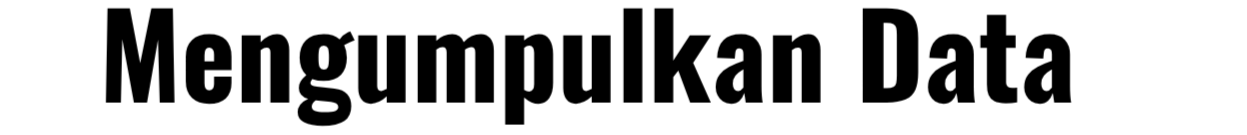
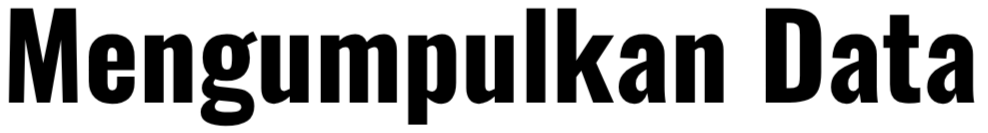
Update TopicFlow.jsx to include new slide type for "Merumuskan Hipotesis", adjust related audio mappings, and enhance UI elements with additional images and headings for better clarity.

diff --git a/src/components/TopicFlow.jsx b/src/components/TopicFlow.jsx
@@ -20,7 +20,7 @@ const LAYOUT = {
 const GERAK_SLIDES = [
   { type: "gerak-simak", label: "Ayo Simak" },
   { type: "gerak-bertanya", label: "Ayo Bertanya" },
-  { type: "gerak-coba-tebak-image", label: "Coba Tebak" },
+  { type: "gerak-merumuskan-hipotesis", label: "Merumuskan Hipotesis" },
   { type: "gerak-coba-tebak-pertanyaan", label: "Coba Tebak Pertanyaan", background: "/assets/latar-slide/4.png" },
   { type: "gerak-materi", label: "Materi Gerak" },
   { type: "kecepatan-rumus", label: "Kecepatan dan Rumus" },
@@ -273,6 +273,7 @@ function TopicFlow({ topic }) {
     const map = {
       "gerak-simak": "ui-ayo-simak",
       "gerak-bertanya": "slide-gerak-bertanya",
+      "gerak-merumuskan-hipotesis": "slide-gerak-merumuskan-hipotesis",
       "gerak-coba-tebak-image": "slide-gerak-coba-tebak",
       "gerak-coba-tebak-pertanyaan": "slide-gerak-coba-tebak-pertanyaan",
       "gerak-materi": "slide-gerak-materi",
@@ -547,19 +548,6 @@ function TopicFlow({ topic }) {
           >
             <div className="relative z-10 flex flex-col items-center justify-center h-full w-full gap-3 p-4">
               <img src={`${ET}/Orientasi Gerak.png`} alt="Orientasi Gerak" className="w-full object-contain" />
-
-              {/* Deskripsi */}
-              {/* <div className="text-center">
-                <h2 className="text-black text-xl lg:text-2xl font-bold">
-                  Amati Gerakan Mobil!
-                </h2>
-
-                <p className="text-black text-sm lg:text-base mt-1">
-                  Perhatikan perubahan posisi dan arah gerak mobil pada video berikut.
-                </p>
-              </div> */}
-
-              {/* Video */}
               <video
                 ref={videoRef}
                 src="/assets/elemen/Gerak/Animasi mobil Bergerak.mp4"
@@ -585,14 +573,23 @@ function TopicFlow({ topic }) {
       case "gerak-coba-tebak-image":
         return (
           <CharacterAndBoard characterSrc="/assets/elemen/Gerak/Coba Tebak.png" characterAlt="Coba Tebak" boardInset="8%">
-            <div className="w-full h-full flex flex-col justify-center gap-2 overflow-y-auto items-center py-1">
-              <br />
-              <img src={`${ET}/Merumuskan Hipotesis.png`} alt="Merumuskan hipotesis" className="w-2/3 object-contain" />
-              <img src={`${ET}/Tuliskan Hipotesismu.png`} alt="Tuliskan hipotesismu" className="w-2/3 object-contain" />
-              <img src="/assets/elemen/Gaya/Coba Tebak 1.png" alt="Coba Tebak" className="w-2/3  object-contain" />
+            <div className="flex h-full w-full items-center justify-center overflow-y-auto py-1">
+              <img src="/assets/elemen/Gerak/Coba tebak 1.png" alt="Coba Tebak" className="max-h-full w-full object-contain" />
             </div>
           </CharacterAndBoard>
         );
+
+      case "gerak-merumuskan-hipotesis":
+        return (
+          <CharacterAndBoard characterSrc="/assets/elemen/Gerak/Coba Tebak.png" characterAlt="Merumuskan Hipotesis" boardInset="8%">
+            <div className="w-full h-full flex flex-col justify-center gap-2 overflow-y-auto items-center py-1">
+              <img src={`${ET}/Merumuskan Hipotesis.png`} alt="Merumuskan hipotesis" className="w-full object-contain shrink-0" />
+              <img src={`${ET}/Tuliskan Hipotesismu.png`} alt="Tuliskan hipotesismu" className="w-full object-contain" />
+            </div>
+          </CharacterAndBoard>
+        );
+
+
 
       case "gerak-coba-tebak-pertanyaan":
         return (
@@ -631,7 +628,6 @@ function TopicFlow({ topic }) {
               <p>
                 <span className="font-bold">Kelajuan</span> adalah seberapa cepat jarak ditempuh dalam waktu tertentu tanpa memperhitungkan arah. Kelajuan termasuk besaran skalar.
               </p>
-              <img src={`${ET}/Rumus Gerak.png`} alt="Rumus gerak" className="w-full max-h-[40%] object-contain mx-auto" />
             </div>
           </PapanPutihFull>
         );
@@ -644,18 +640,19 @@ function TopicFlow({ topic }) {
                 <span className="font-bold">Kecepatan</span> adalah besarnya perpindahan per satuan waktu. Kecepatan adalah besaran vektor yang memiliki nilai, satuan, dan arah.
               </p>
               <p>Dengan membandingkan jarak tempuh terhadap waktu, kamu akan mendapatkan nilai kelajuan sebuah benda. Kelajuan dapat ditulis dalam persamaan:</p>
-              <div className="bg-gray-100 rounded-lg p-3 text-center text-2xl md:text-3xl font-bold tracking-wide">v = s / t</div>
-              <ul className="space-y-1">
-                <li>
-                  <span className="font-bold">v</span> = Kelajuan (m/s)
-                </li>
-                <li>
-                  <span className="font-bold">s</span> = Jarak tempuh (m)
-                </li>
-                <li>
-                  <span className="font-bold">t</span> = Waktu (s)
-                </li>
-              </ul>
+              <img src={`${ET}/Rumus Gerak.png`} alt="Rumus gerak" className="w-full max-h-[40%] object-contain mx-auto" />
+              <div className="space-y-1">
+                <p className="font-bold">Keterangan:</p>
+                <p>
+                  <span className="font-bold">v</span> = Kelajuan, satuannya m/s
+                </p>
+                <p>
+                  <span className="font-bold">s</span> = Jarak tempuh, satuannya meter (m)
+                </p>
+                <p>
+                  <span className="font-bold">t</span> = waktu, satuannya adalah sekon atau detik (s)
+                </p>
+              </div>
             </div>
           </PapanPutihFull>
         );
@@ -681,23 +678,17 @@ function TopicFlow({ topic }) {
       case "tabel-pengamatan-gerak":
         return (
           <PapanPutihFull>
-            <img src="/assets/elemen/Gerak/Tabel Pengamatan.png" alt="Tabel Pengamatan" className="w-full h-full object-contain" />
+            <h1 className="text-center text-4xl font-bold font-oswald">TABEL PENGAMATAN</h1>
+            <img src={`${ET}/Mengumpulkan Data.png`} alt="Mengumpulkan data" className="w-1/3 h-fit object-contain" />
+            <img src="/assets/elemen/Gerak/Tabel Pengamatan.png" alt="Tabel Pengamatan" className="w-full h-fit object-contain" />
           </PapanPutihFull>
         );
 
       case "analisis-yuk-gerak":
         return (
           <CharacterAndBoard characterSrc="/assets/elemen/Gerak/Analisis Yuk.png" characterAlt="Analisis Yuk">
+            <h3 className="text-left text-2xl font-bold font-oswald">Menganalisis Data</h3>
             <div className="w-full h-full flex flex-col justify-center overflow-y-auto gap-2 items-center">
-              <br />
-              <br />
-              <br />
-              <br />
-              <br />
-              <br />
-              <br />
-              <img src={`${ET}/Menganalisis Data.png`} alt="Menganalisis data" className="w-full object-contain" />
-              <img src="/assets/elemen/Gerak/Analisis Yuk 1.png" alt="Analisis Yuk 1" className="w-2/3 object-contain" />
               <img src={`${ET}/Gunakan Jawaban.png`} alt="Gunakan jawaban" className="w-2/3 object-contain" />
               <img src="/assets/elemen/Gerak/Analisis Yuk 2.png" alt="Analisis Yuk 2" className="w-full object-contain" />
             </div>
@@ -707,10 +698,9 @@ function TopicFlow({ topic }) {
       case "mari-simpulkan-gerak":
         return (
           <CharacterAndBoard characterSrc="/assets/elemen/Gerak/Mari Simpulkan.png" characterAlt="Mari Simpulkan">
+            <h3 className="text-left text-2xl font-bold font-oswald">Membuat Kesimpulan</h3>
             <div className="w-full h-full flex flex-col justify-center overflow-y-auto gap-2 items-center">
-              <br />
-              <img src={`${ET}/Membuat Kesimpulan.png`} alt="Membuat kesimpulan" className="w-full object-contain shrink-0" />
-              <img src="/assets/elemen/Gerak/Mari Simpulkan 1.png" alt="Mari Simpulkan 1" className="w-2/3 object-contain" />
+              <img src="/assets/elemen/Gerak/Mari Simpulkan 1.png" alt="Mari Simpulkan 1" className="w-3/4 object-contain" />
               <img src="/assets/elemen/Gerak/Mari Simpulkan 2.png" alt="Mari Simpulkan 2" className="w-full object-contain" />
             </div>
           </CharacterAndBoard>
@@ -729,8 +719,9 @@ function TopicFlow({ topic }) {
       case "gaya-bertanya":
         return (
           <CharacterAndBoard characterSrc="/assets/elemen/Gaya/Ayo bertanya.png" characterAlt="Ayo Bertanya">
-            <div className="w-full h-full flex flex-col items-center justify-center overflow-y-auto gap-2">
-              <img src={`${ET}/Mengajukan Pertanyaan atau Permasalahan.png`} alt="Mengajukan pertanyaan atau permasalahan" className="w-full object-contain shrink-0" />
+            <h3 className="text-left text-2xl font-bold font-oswald">Mengajukan Pertanyaan atau Permasalahan</h3>
+            <br />
+            <div className="w-full h-fit flex flex-col items-center justify-center overflow-y-auto gap-2">
               <img src="/assets/elemen/Gaya/Ayo bertanya 1.png" alt="Pertanyaan 1" className="w-2/3 object-contain" />
               <img src="/assets/elemen/Gaya/Ayo bertanya 2.png" alt="Pertanyaan 2" className="w-full object-contain" />
             </div>
@@ -740,12 +731,10 @@ function TopicFlow({ topic }) {
       case "gaya-coba-tebak":
         return (
           <CharacterAndBoard characterSrc="/assets/elemen/Gaya/Coba Tebak.png" characterAlt="Coba Tebak" boardInset="8%">
-            <div className="w-full h-full flex flex-col justify-center gap-2 overflow-y-auto py-1 items-center">
-              <br />
-              <br />
-              <img src={`${ET}/Merumuskan Hipotesis.png`} alt="Merumuskan hipotesis" className="w-full object-contain" />
-              <img src={`${ET}/Tuliskan Hipotesismu.png`} alt="Tuliskan hipotesismu" className="w-2/3 object-contain" />
-              <img src="/assets/elemen/Gaya/Coba Tebak 1.png" alt="Coba Tebak" className="w-2/3 object-contain" />
+            <h3 className="text-left text-2xl font-bold font-oswald">Mengajukan Pertanyaan atau Permasalahan</h3>
+            <br />
+            <div className="w-full h-fit flex flex-col justify-center gap-2 overflow-y-auto py-1 items-center">
+              <img src={`${ET}/Tuliskan Hipotesismu.png`} alt="Tuliskan hipotesismu" className="w-full object-contain" />
             </div>
           </CharacterAndBoard>
         );
@@ -814,11 +803,21 @@ function TopicFlow({ topic }) {
             <div className="font-oswald text-gray-800 text-base md:text-lg lg:text-3xl leading-relaxed space-y-3">
               <h3 className="font-bold">Hukum 2 Newton</h3>
               <p>Percepatan sebuah benda sebanding dengan gaya yang diberikan dan berbanding terbalik dengan massanya. Hukum II Newton dituangkan dalam rumus:</p>
-              {/* <div className="text-center text-2xl md:text-3xl font-bold italic my-2">F = m × a</div>
-                <p>F = Gaya (Newton) &nbsp;|&nbsp; m = massa (kg) &nbsp;|&nbsp; a = percepatan (m/s²)</p> */}
-            </div>
-            <div className="flex flex-col items-center">
-              <img src={`${ET}/Rumus Hukum 2 Newton.png`} alt="Rumus hukum 2 Newton" className="w-2/3 object-contain" />
+              <div className="flex flex-col items-center">
+                <img src={`${ET}/Rumus Hukum 2 Newton.png`} alt="Rumus hukum 2 Newton" className="w-2/3 object-contain" />
+              </div>
+              <div className="space-y-1 text-base md:text-lg lg:text-2xl">
+                <p className="font-bold">Keterangan:</p>
+                <p>
+                  <span className="font-bold">F</span> = Gaya, dengan satuan Newton
+                </p>
+                <p>
+                  <span className="font-bold">m</span> = massa benda, satuan kilogram (kg)
+                </p>
+                <p>
+                  <span className="font-bold">a</span> = percepatan gerak benda, satuan m/s
+                </p>
+              </div>
             </div>
           </PapanPutihFull>
         );
@@ -860,24 +859,17 @@ function TopicFlow({ topic }) {
       case "tabel-pengamatan-gaya":
         return (
           <PapanPutihFull>
-            <img src="/assets/elemen/Gaya/Tabel Pengamatan.png" alt="Tabel Pengamatan" className="w-full h-full object-contain" />
+            <h1 className="text-center text-4xl font-bold font-oswald">TABEL PENGAMATAN</h1>
+            <img src={`${ET}/Mengumpulkan Data.png`} alt="Mengumpulkan data" className="w-1/3 h-fit object-contain" />
+            <img src="/assets/elemen/Gaya/Tabel Pengamatan.png" alt="Tabel Pengamatan" className="w-full h-fit object-contain" />
           </PapanPutihFull>
         );
 
       case "analisis-yuk-gaya":
         return (
           <CharacterAndBoard characterSrc="/assets/elemen/Gaya/Analisis Yuk.png" characterAlt="Analisis Yuk">
-            <div className="w-full h-full flex flex-col items-center justify-center overflow-y-auto gap-2">
-              <br />
-              <br />
-              <br />
-              <br />
-              <br />
-              <br />
-              <br />
-              <br />
-              <img src={`${ET}/Menganalisis Data.png`} alt="Menganalisis data" className="w-full object-contain" />
-              <img src="/assets/elemen/Gaya/Analisis Yuk 1.png" alt="Analisis Yuk 1" className="w-2/3 object-contain" />
+            <h3 className="text-left text-2xl font-bold font-oswald">Menganalisis Data</h3>
+            <div className="w-full h-fit flex flex-col justify-center overflow-y-auto gap-2 items-center">
               <img src={`${ET}/Gunakan Jawaban.png`} alt="Gunakan jawaban" className="w-2/3 object-contain" />
               <img src="/assets/elemen/Gaya/Analisis Yuk 2.png" alt="Analisis Yuk 2" className="w-full object-contain" />
             </div>
@@ -887,9 +879,8 @@ function TopicFlow({ topic }) {
       case "mari-simpulkan-gaya":
         return (
           <CharacterAndBoard characterSrc="/assets/elemen/Gaya/Mari Simpulkan.png" characterAlt="Mari Simpulkan">
-            <div className="w-full h-full flex flex-col justify-center overflow-y-auto gap-2 items-center">
-              <img src={`${ET}/Membuat Kesimpulan.png`} alt="Membuat kesimpulan" className="w-full object-contain" />
-              <img src="/assets/elemen/Gaya/Mari Simpulkan 1.png" alt="Mari Simpulkan 1" className="w-2/3 object-contain" />
+            <h3 className="text-left text-2xl font-bold font-oswald">Membuat Kesimpulan</h3>
+            <div className="w-full h-fit flex flex-col justify-center overflow-y-auto gap-2 items-center"><img src="/assets/elemen/Gaya/Mari Simpulkan 1.png" alt="Mari Simpulkan 1" className="w-2/3 object-contain" />
               <img src="/assets/elemen/Gaya/Mari Simpulkan 2.png" alt="Mari Simpulkan 2" className="w-full object-contain" />
             </div>
           </CharacterAndBoard>

diff --git a/src/hooks/useAudio.js b/src/hooks/useAudio.js
@@ -22,6 +22,7 @@ const OPERATOR_AUDIO_MAP = {
   "slide-cptp": `${operatorBase}/006a.mp3`,
   "slide-panduan": `${operatorBase}/Operator_Panduan.mp3`,
   "slide-gerak-bertanya": `${operatorBase}/007.mp3`,
+  "slide-gerak-merumuskan-hipotesis": `${operatorBase}/008.mp3`,
   "slide-gerak-coba-tebak": `${operatorPerbaikan}/008.mp3`,
   "slide-gerak-coba-tebak-pertanyaan": `${operatorPerbaikan}/009.mp3`,
   "slide-gerak-materi": `${operatorBase}/0010 A.mp3`,
